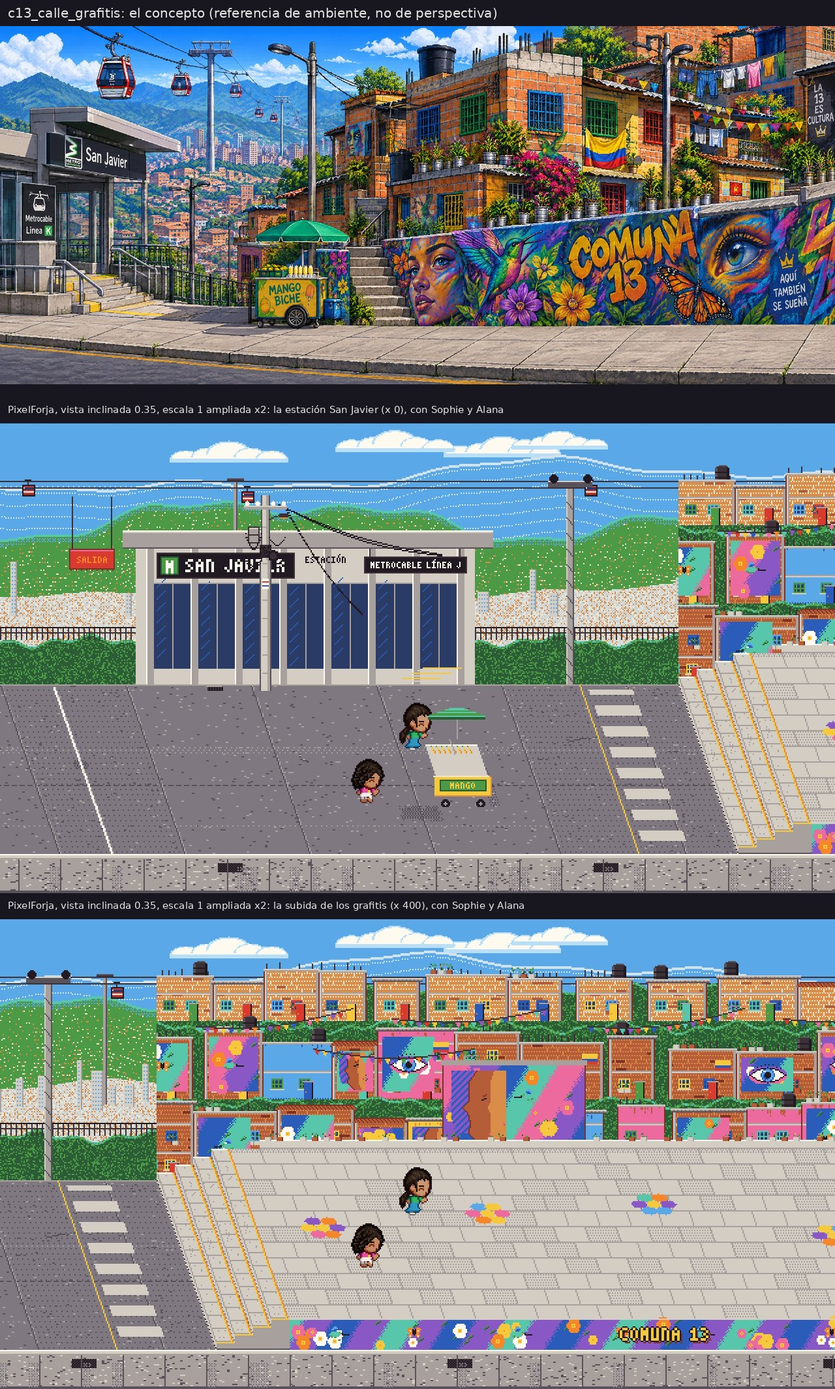
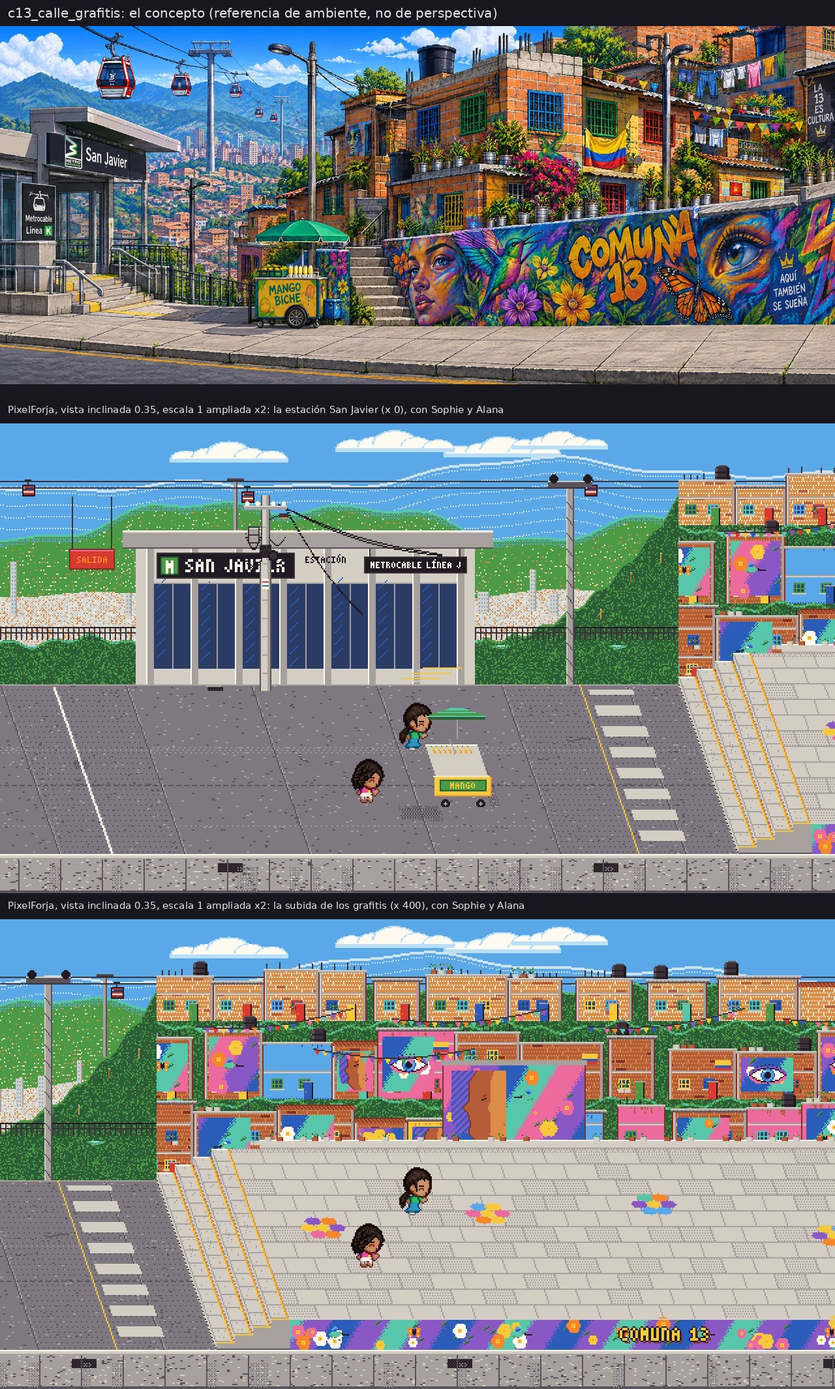
E3a: el cerro sube con casitas al final de la estación, sin corte con la subida
Claude-Session: https://claude.ai/code/session_01JyeqgYaNCz4cU9RBqiqVkS

Changed region(s): [[0.5938, 0.341, 0.8125, 0.465], [0.0, 0.713, 0.1875, 0.837]]

diff --git a/src/engine/world/oblique/comuna13.ts b/src/engine/world/oblique/comuna13.ts
@@ -330,6 +330,14 @@ function cerroDeCasas(C: Lienzo, x0: number, x1: number, base: number, seed: num
 const estacion: PintorCerca = (C, x0, x1, base, ctx) => {
   // el valle abierto detrás, con matas y la baranda del borde
   monte(C, x0, base - 34, x1 - x0, 34, ctx.seed + 11);
+  // al final del tramo el cerro empieza a subir: así el paso a las casas de la subida va por el monte y no es un corte
+  const sube = 150;
+  for (let x = Math.max(x0, x1 - sube); x < x1; x++) {
+    const t = (x - (x1 - sube)) / sube, top = Math.round(base - 34 - t * t * (base - 34 - 56) + Math.sin(x * 0.3) * 2);
+    for (let y = top; y < base - 30; y++) C.p(x, y, y < top + 2 ? 'verde' : grain(x, y, ctx.seed) < 0.22 ? 'verde' : 'verde_oscuro');
+    // casitas sueltas en la ladera
+    if (t > 0.45 && x % 23 === 0) { const hy = top + 10 + (x % 3) * 6; if (hy + 10 < base - 34) { C.f(x, hy, 9, 8, (x / 23) % 2 ? 'terracota' : 'ocre'); C.hl(x, hy, 9, 'cemento_claro'); C.p(x + 3, hy + 3, 'azul_noche'); } }
+  }
   for (let x = x0; x < x1; x += 4) C.vl(x, base - 44, 10, 'sombra');
   C.hl(x0, base - 44, x1 - x0, 'tinta'); C.hl(x0, base - 40, x1 - x0, 'sombra');
   // el edificio de la estación
